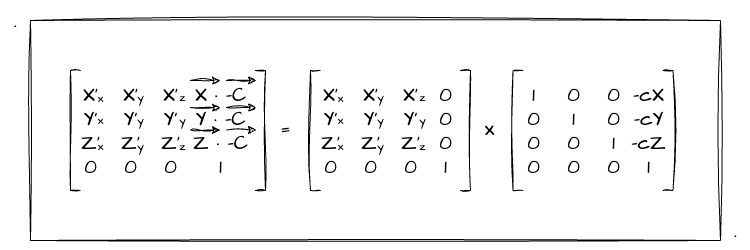
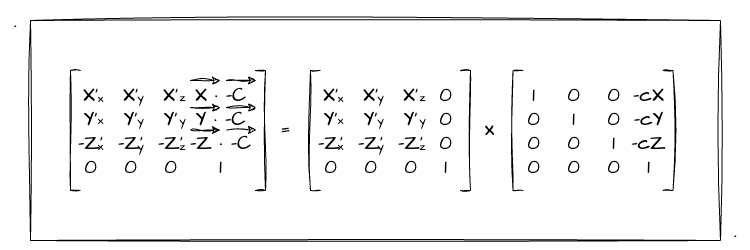
fix: -z

diff --git a/src/demo/matrix/ViewMatrix.ts b/src/demo/matrix/ViewMatrix.ts
@@ -1,0 +1,22 @@
+interface TLookAt {
+  (cX: number, cY: number, cZ: number, tX: number, tY: number, tZ: number, uX: number, uY: number, uZ: number): void
+}
+
+class ViewMatrix {
+  elements: number[]
+
+  constructor () {
+    this.elements = [
+      1, 0, 0, 0,
+      0, 1, 0, 0,
+      0, 0, 1, 0,
+      0, 0, 0, 1
+    ]
+  }
+
+  lookAt: TLookAt = function (cX: number, cY: number, cZ: number, tX: number, tY: number, tZ: number, uX: number, uY: number, uZ: number) {
+
+  }
+}
+
+export default ViewMatrix

diff --git a/docs/content/五、WebGL三维世界/4. 进阶——推导视图矩阵.md b/docs/content/五、WebGL三维世界/4. 进阶——推导视图矩阵.md
@@ -132,7 +132,7 @@ x' = ax + by + cz + dw = ax + by + cz + d = x·cosθ - y·sinθ
 
 经过前面两轮数学知识的铺垫，我们可能已经忘记接下来要做什么了，这里重新回顾一下目标：旋转相机坐标系，使其上方向跟世界坐标系的 **`Y`轴重合**，并看向 `Z` 轴的负方向。其实不用想得太复杂，归根到底，只要我们求出旋转矩阵，剩下的就是用世界坐标系的坐标轴左成旋转矩阵就ok了。
 
-根据上一小节的推导，我们知道旋转矩阵的每一列就是对应的坐标轴旋转后的值。于是我们可以将旋转矩阵表示成以下：
+根据上一小节的推导，我们知道**旋转矩阵的每一列就是对应的坐标轴旋转后的值**。于是我们可以将旋转矩阵表示成以下：
 
 ![4.17](../../public/images/fifth/4.17.png)
 
@@ -158,7 +158,9 @@ Y' = up = (uX, uY, uZ)
 Z' = 矢量CT = (tX-cX, tY-cY, tZ-cZ)
 ```
 
-**注意**：因为我们要把相机的`Z`轴看向世界坐标系`Z`轴的**负**方向，所以目标的矢量`Z`值为`(0,0,-1)`。因此，如果我们用矢量 `(0,0,1)` 去左乘旋转矩阵时，`Z'`的值应该都要取负号，但如果我们用 `(0,0,-1)` 去左成的话就不用，大家注意一下即可。
+**注意**：因为我们要把相机的`Z`轴看向世界坐标系`Z`轴的**负**方向，所以目标的矢量`Z`值为`(0,0,-1)`。因此，如果我们用矢量 `(0,0,1)` 去左乘旋转矩阵时，`Z'`的值应该都要取负号，如果我们用 `(0,0,-1)` 去左成的话就不用。但是世界坐标系的（右手坐标系）`Z` 轴是`(0,0,1)`，**因此我们需要把旋转矩阵的`Z`值变成负数**。
+
+![4.23](../../public/images/fifth/4.23.png)
 
 剩下最后一个 `X'` 了，有看过我之前的文章的应该可以想到，`X'` 一定**垂直**于 `Y'`和`Z'` 所在的平面，所以我们可以根据矢量的**叉积**求出 `X'`。（忘了的可以回顾下：[矢量乘法](/content/四、WebGL二维动画/2.%20图形学的数学基础.html#_2-矢量乘法)）于是我们可以直接得出关系式：
 
